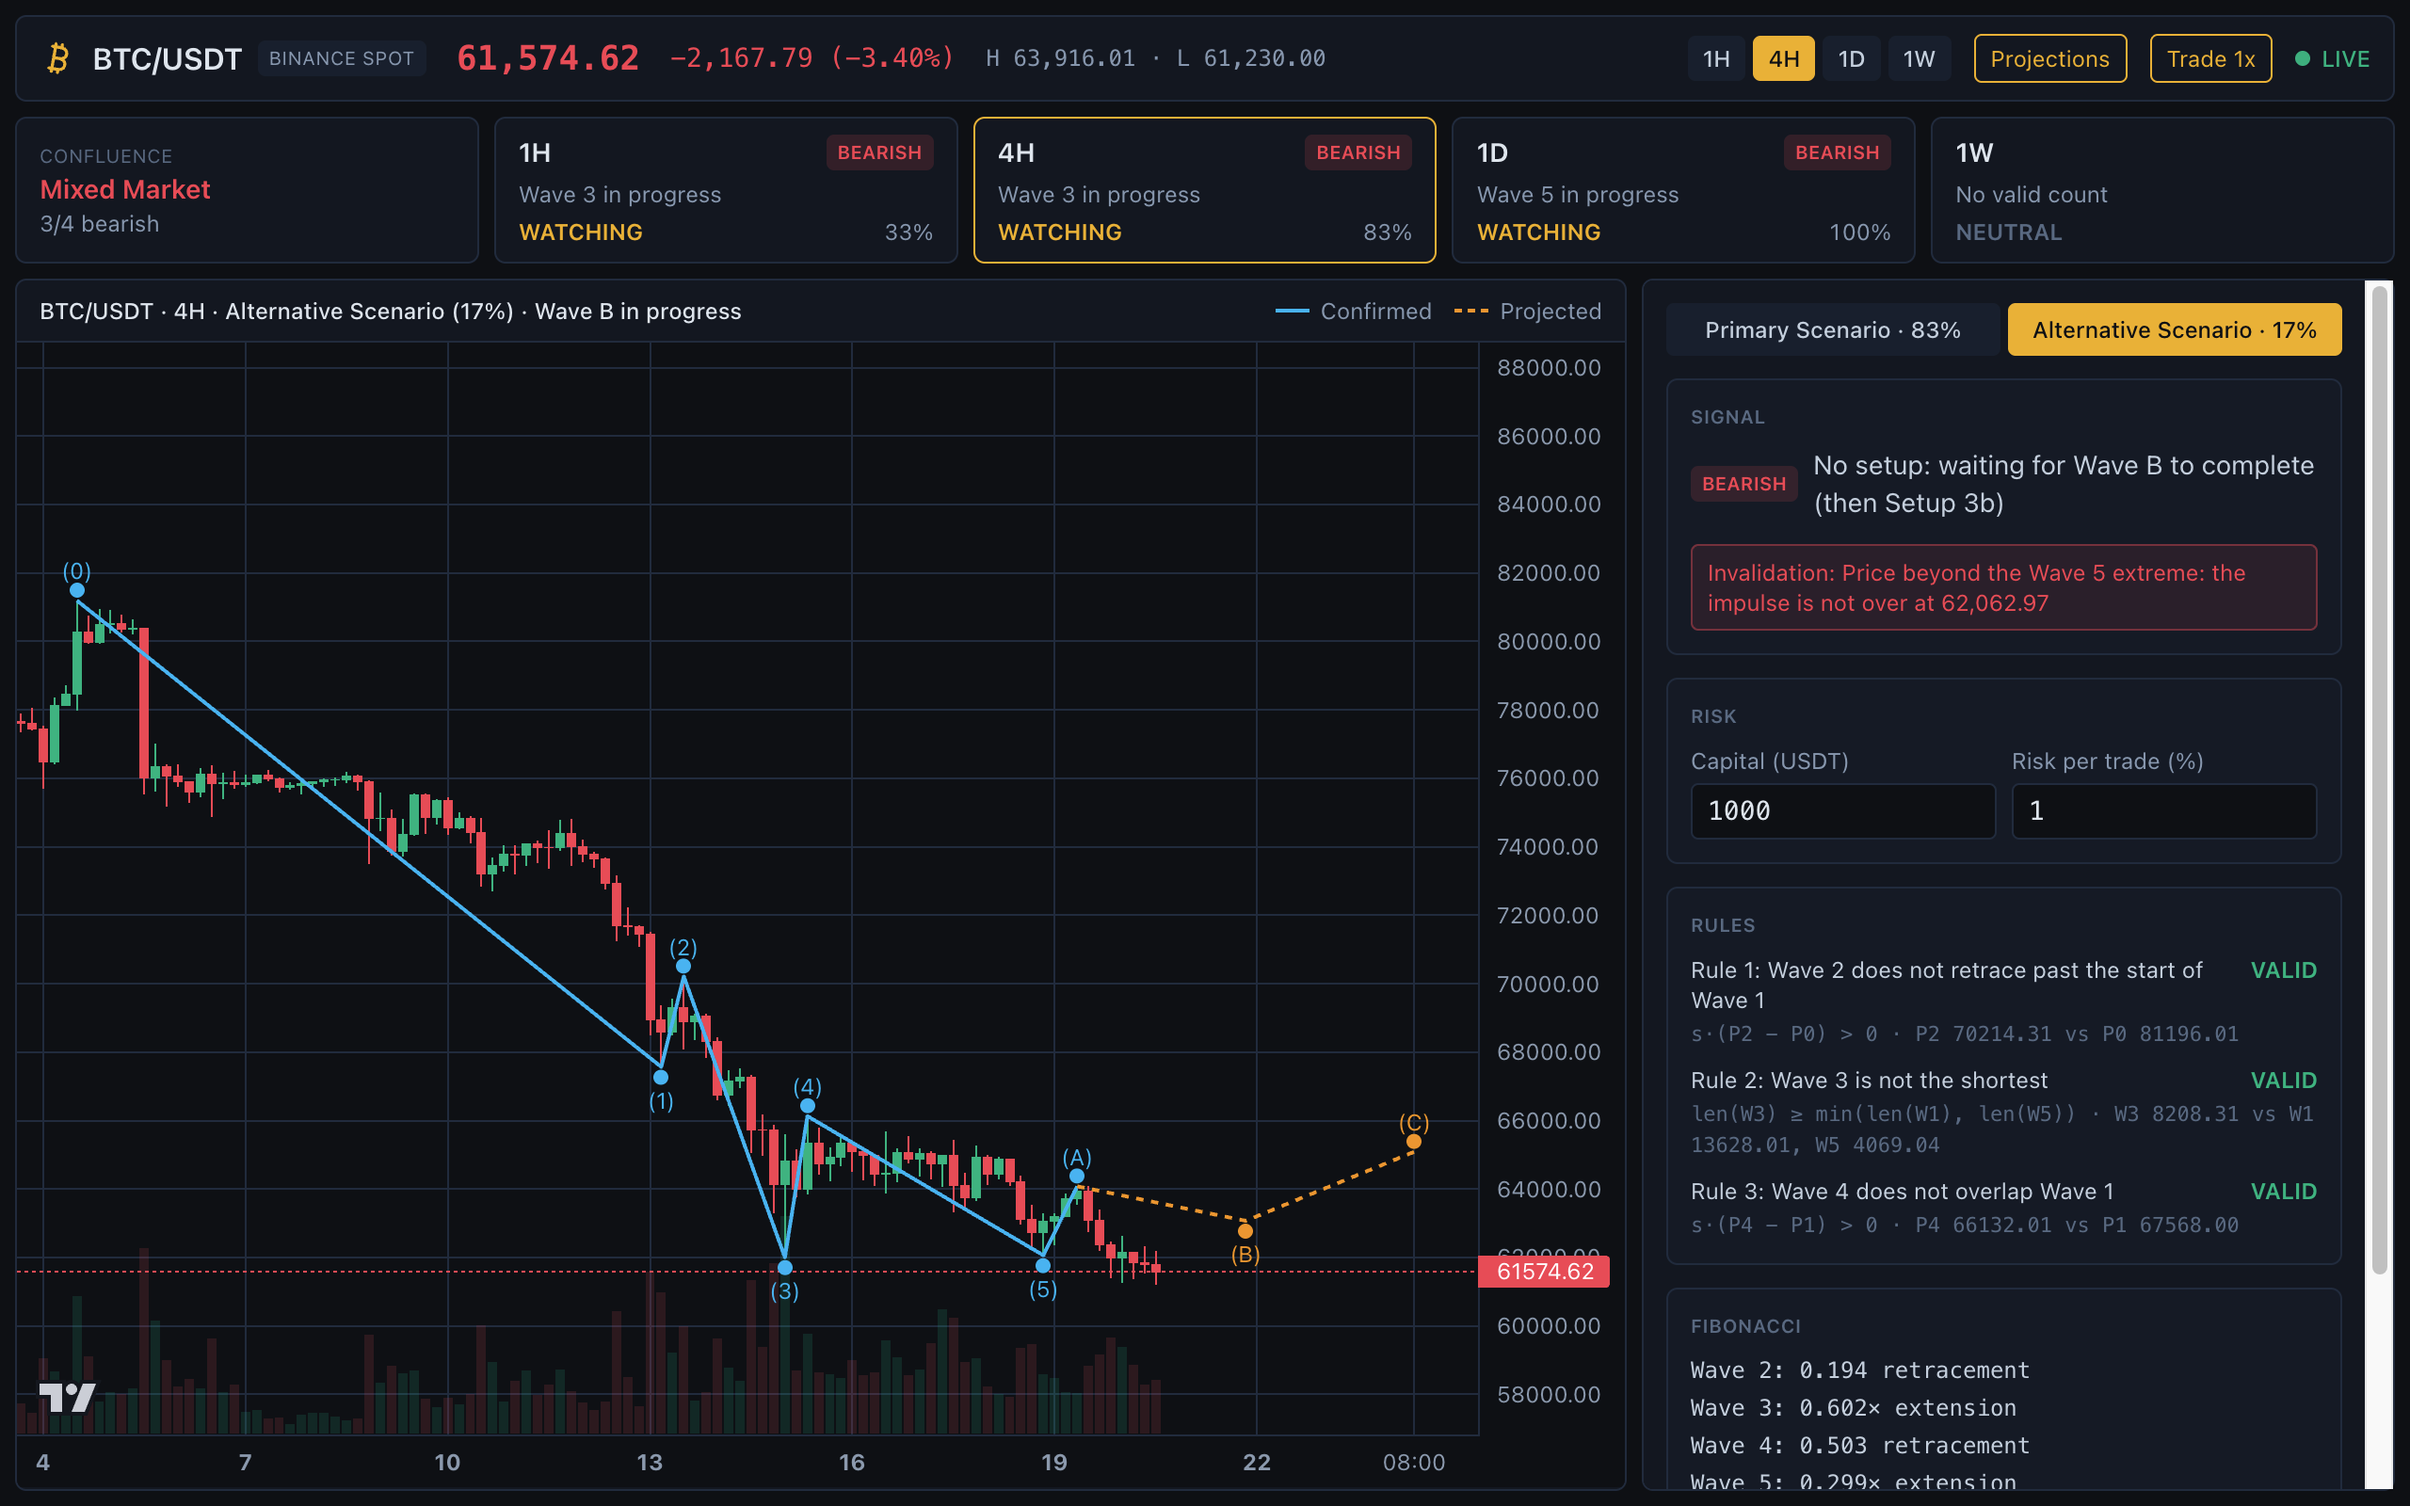
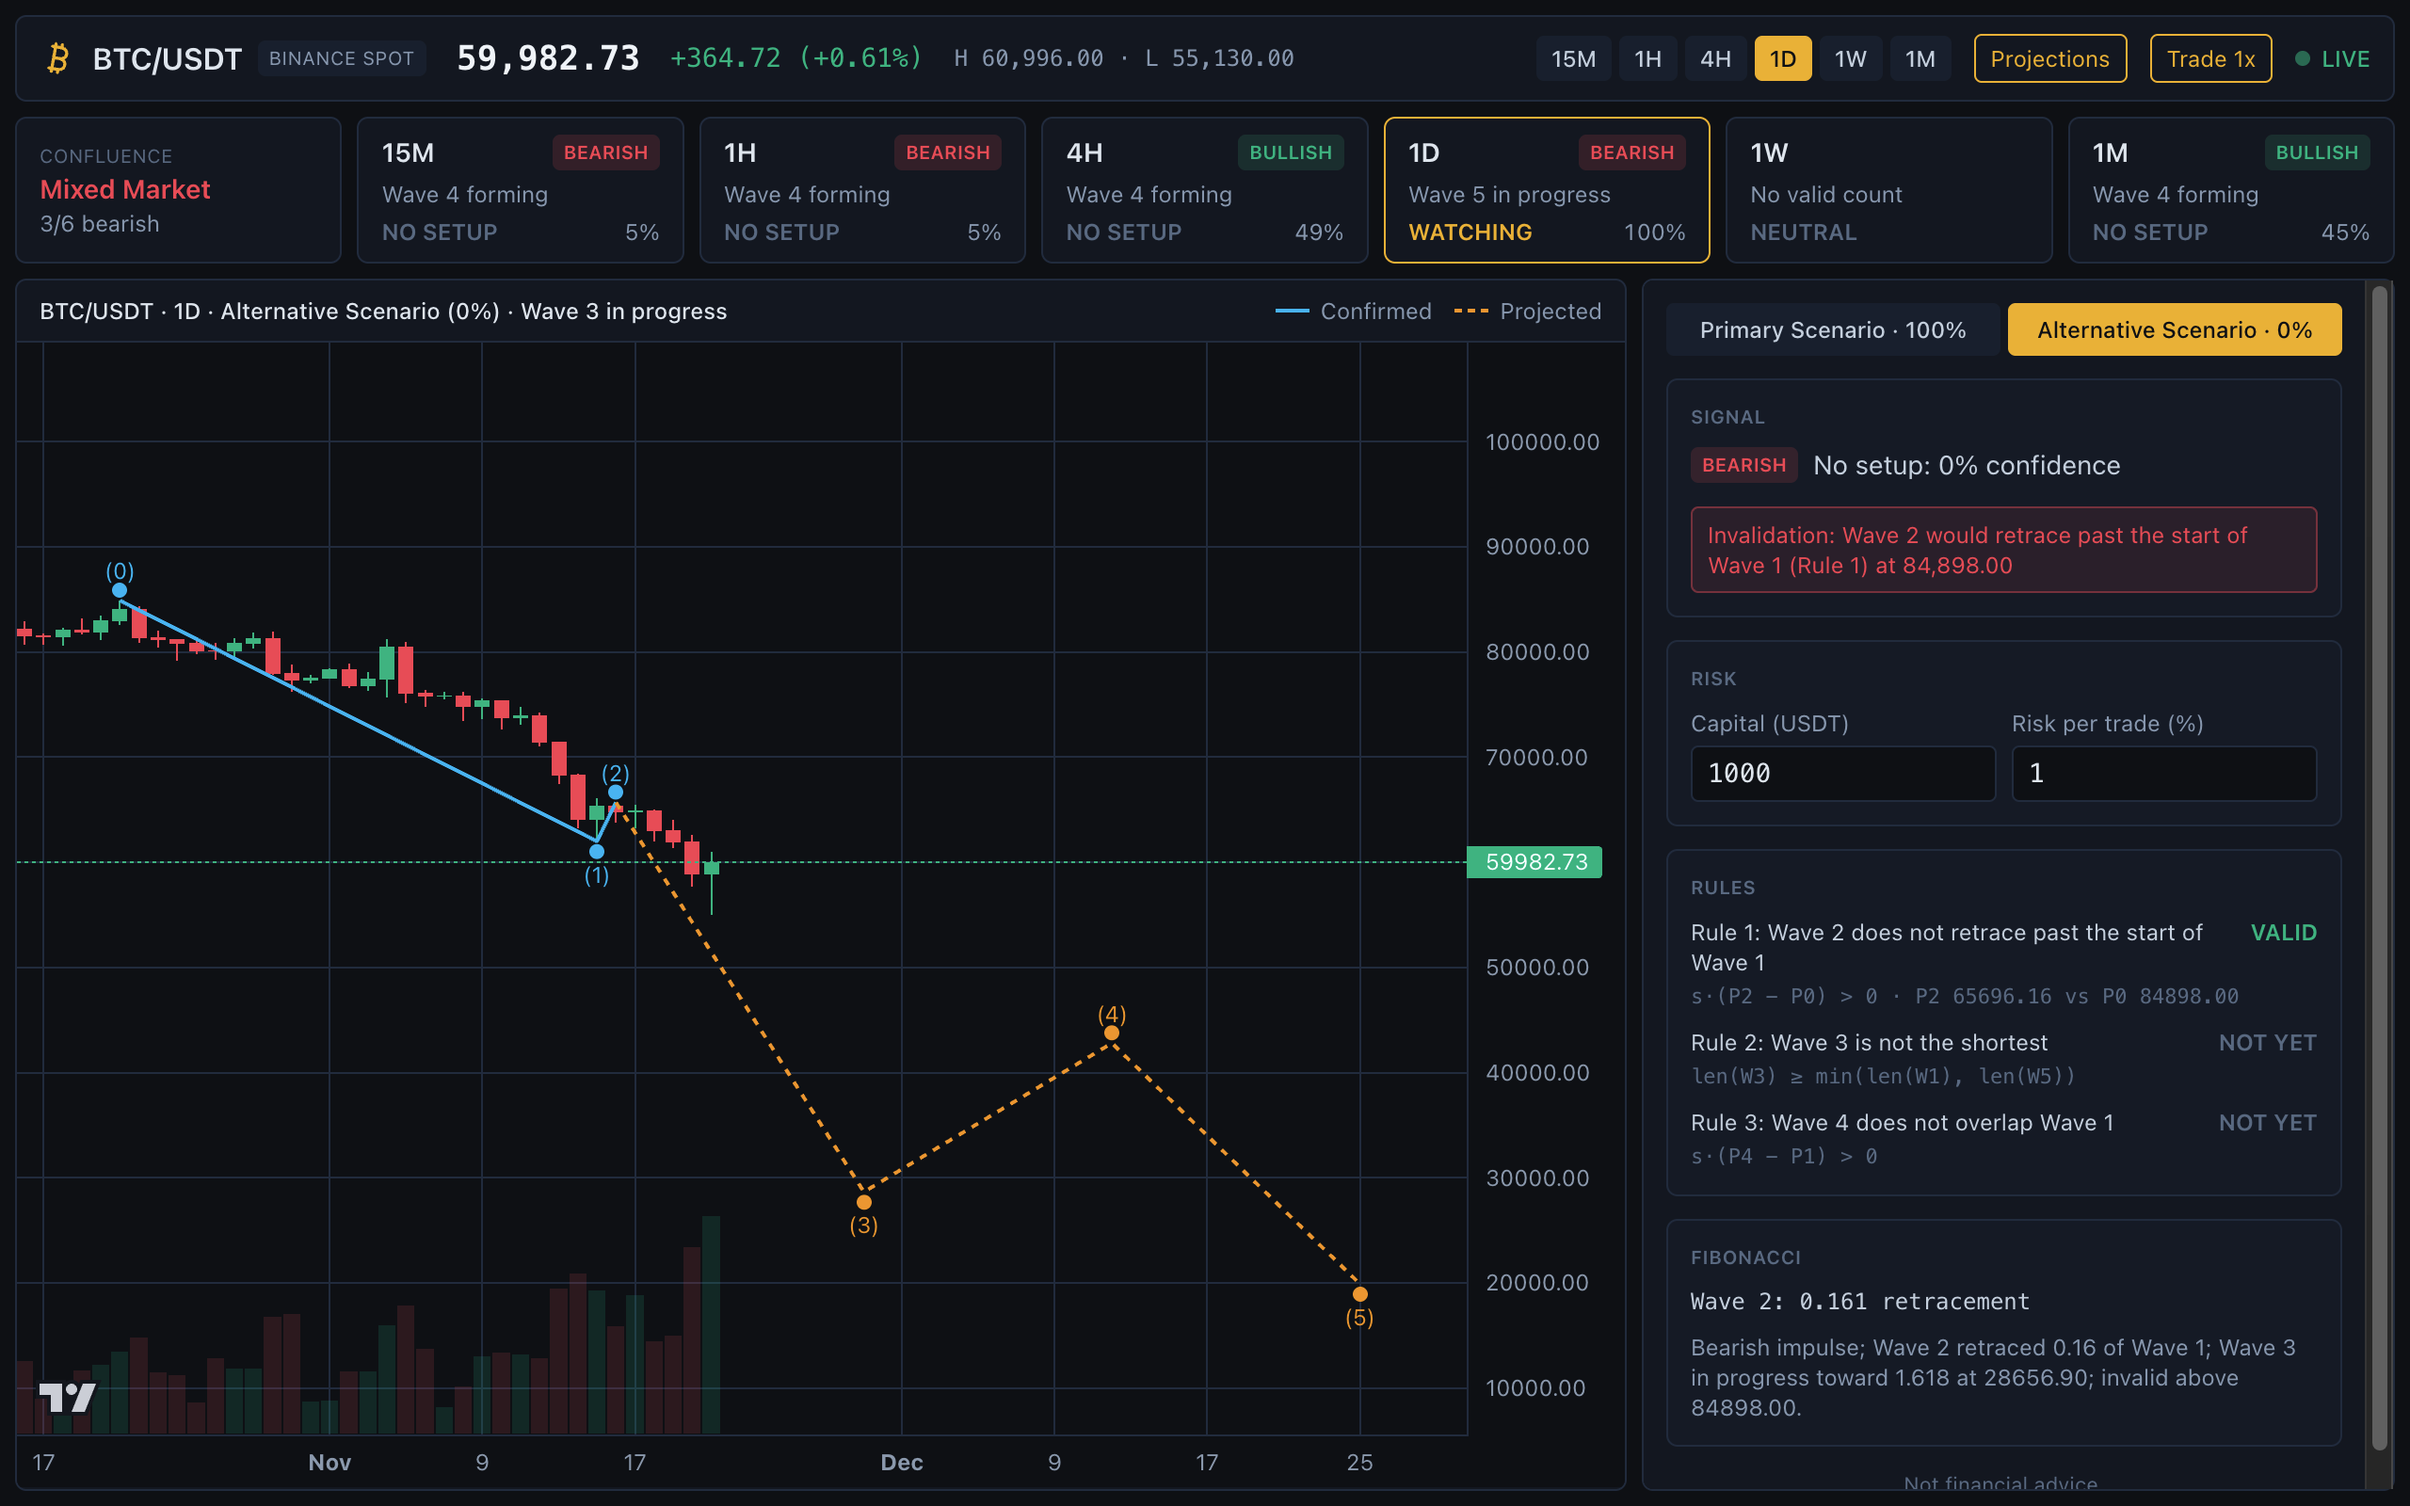
README: retake screenshots with six timeframes
Desktop 4H, Alternative Scenario on 1D (0%, no signal), paused on 1D
(simulated stream drop) and 390 px, against live Binance.

diff --git a/README.md b/README.md
@@ -33,7 +33,7 @@ Live at **<https://btc-elliott.allisson.dev>**.
 
 | Alternative Scenario | Paused (stream down) |
 | :-- | :-- |
-| ![The Alternative Scenario on 4H: a completed bearish impulse with Wave B in progress and no setup yet](docs/screenshots/alternative.png) | ![Offline: the header reads OFFLINE, the cards read PAUSED and every signal is replaced with "Signals paused"](docs/screenshots/offline.png) |
+| ![The Alternative Scenario on 1D: a bearish count with Wave 3 in progress and its projection, shown with no signal because its confidence is 0%](docs/screenshots/alternative.png) | ![Offline: the header reads OFFLINE, the cards read PAUSED and every signal is replaced with "Signals paused"](docs/screenshots/offline.png) |
 
 <p align="center">
   <img src="docs/screenshots/mobile.png" alt="The dashboard at 390 px: one scrolling column with the header, the confluence strip, the chart and the signal panel" width="300">
